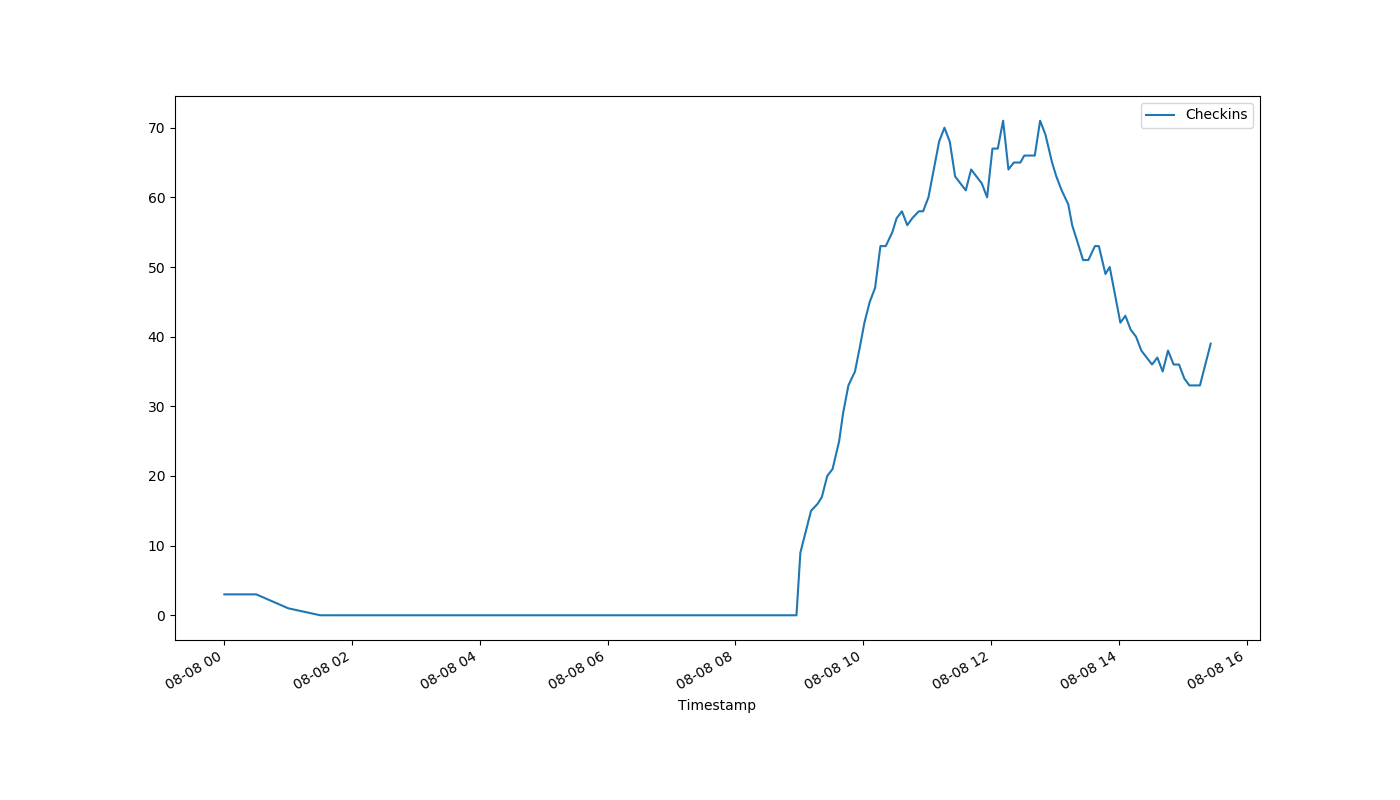
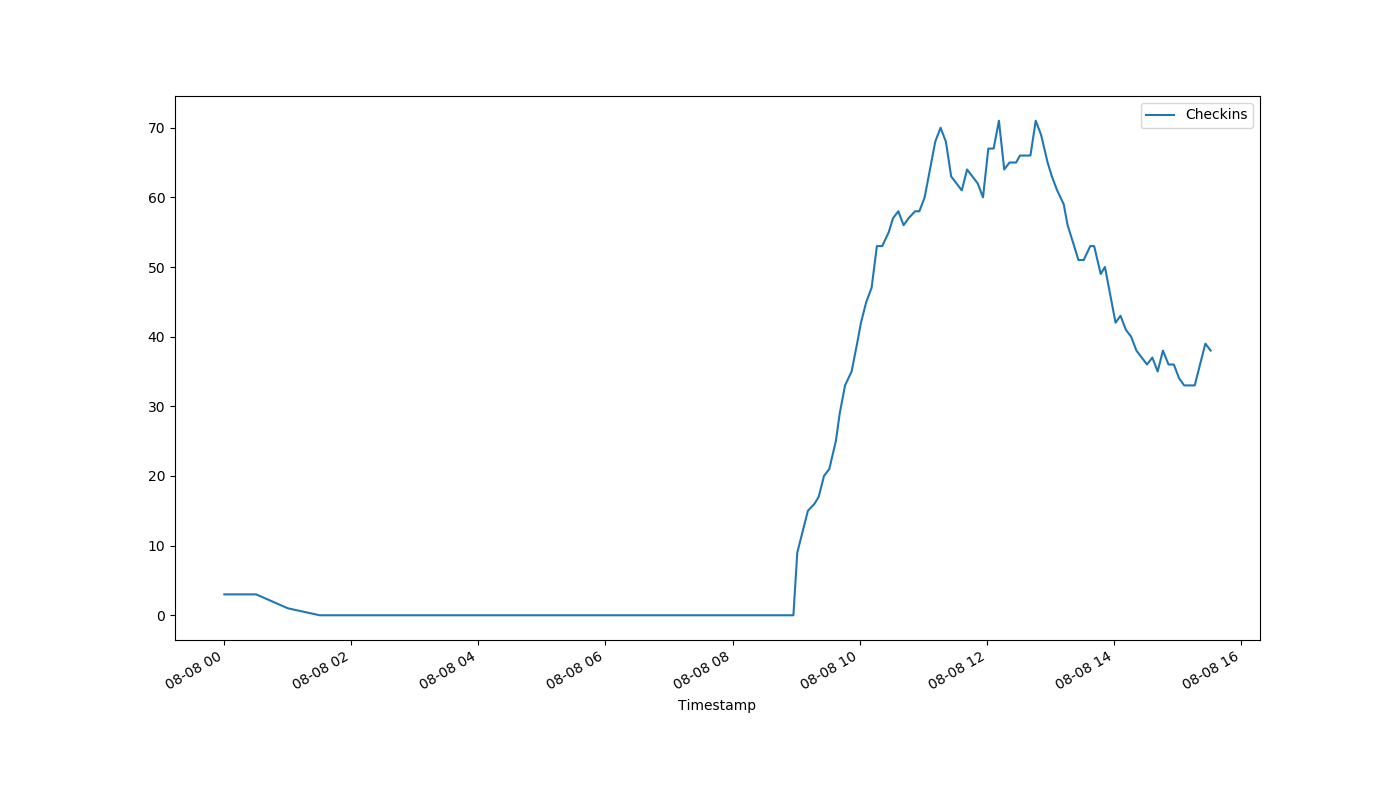
auto-Aug-08-15:32:35

diff --git a/index.html b/index.html
@@ -1,1 +1,1 @@
-<!DOCTYPE html><html><head><meta http-equiv="refresh" content="30"><link rel='stylesheet' href='holmcurrent.css'></head><body><p id='count'>39</p><div id='graph-wrap'><img id='graph' src='holmgraph-Aug-08.png'></div><p id='updated'>Last updated 15:26:18 / 15:26:05</p></body></html>
+<!DOCTYPE html><html><head><meta http-equiv="refresh" content="30"><link rel='stylesheet' href='holmcurrent.css'></head><body><p id='count'>38</p><div id='graph-wrap'><img id='graph' src='holmgraph-Aug-08.png'></div><p id='updated'>Last updated 15:32:19 / 15:31:05</p></body></html>
